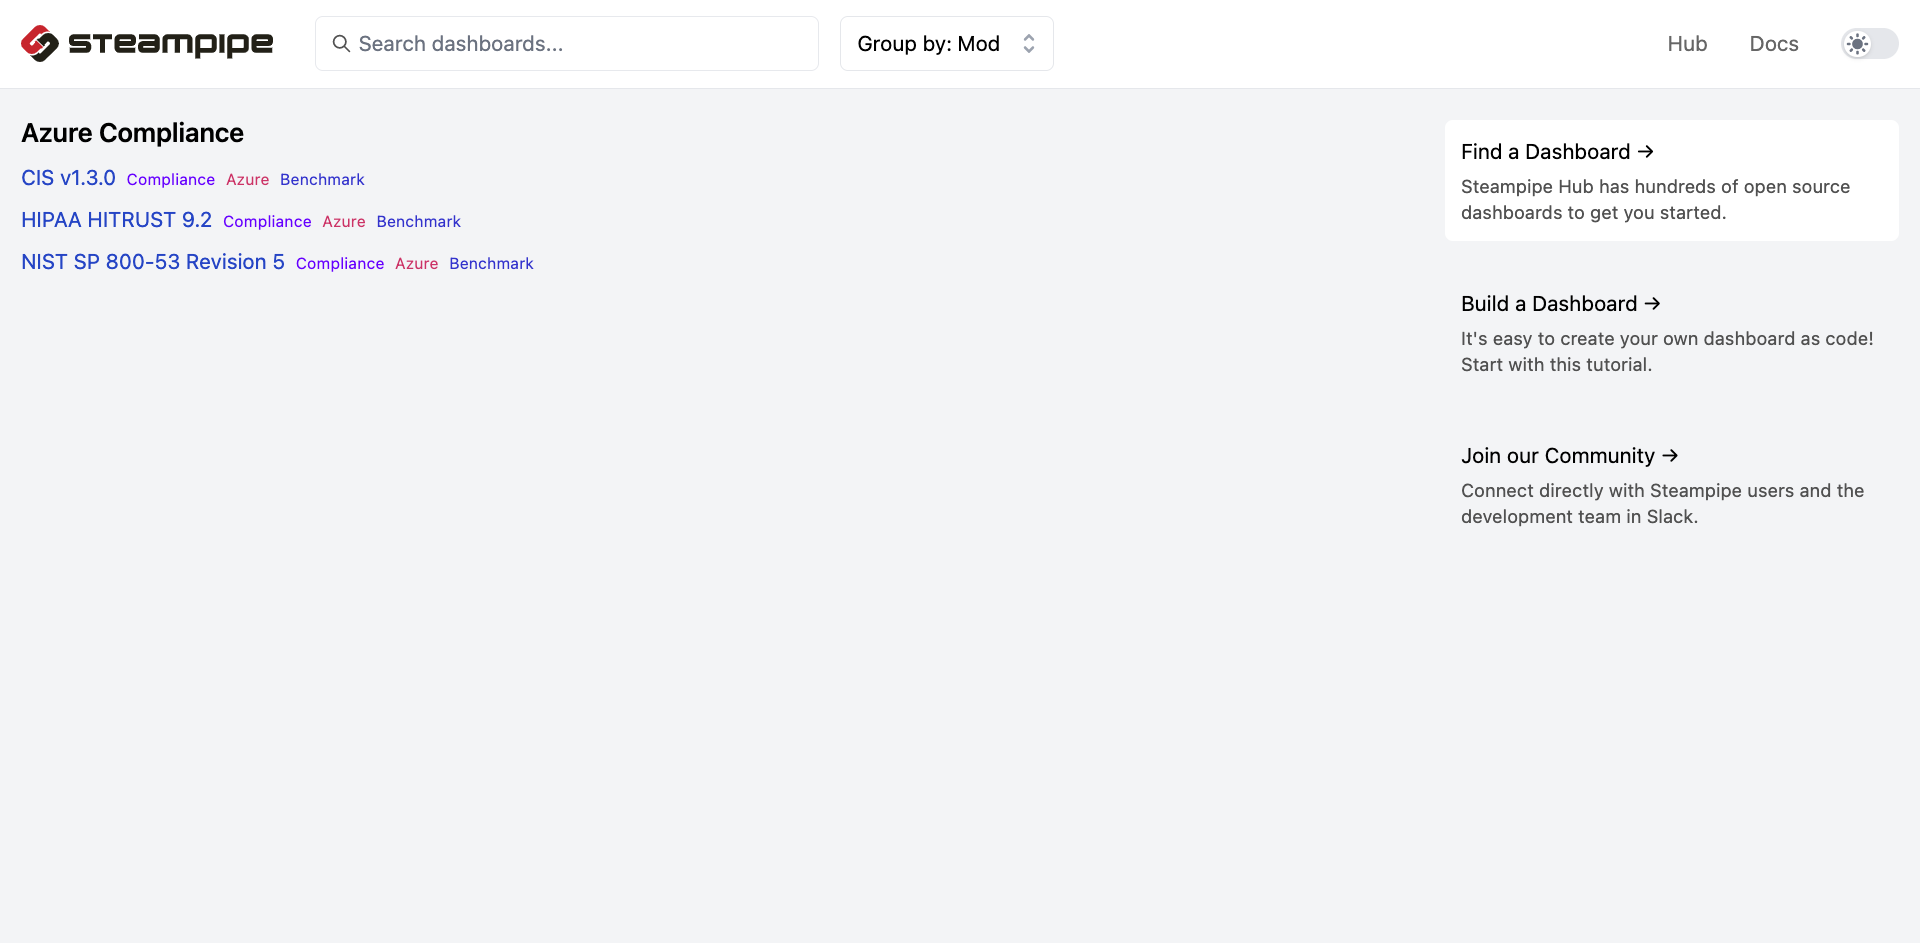
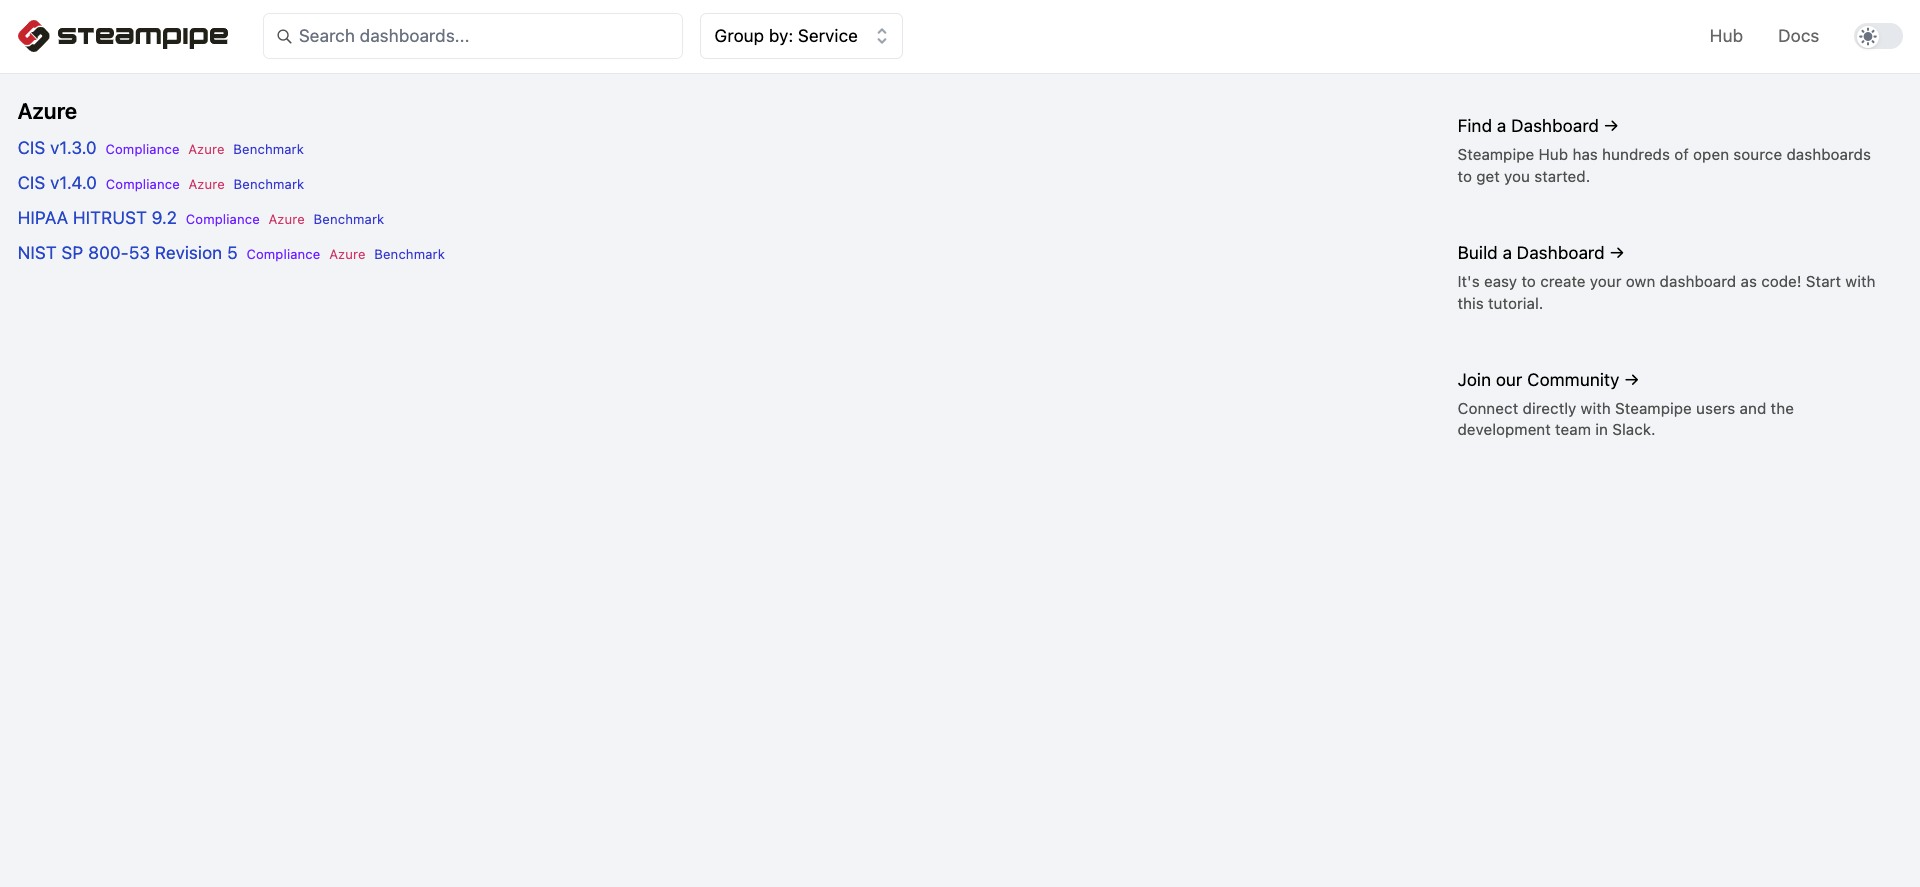
Updated content and dashboard image

diff --git a/docs/index.md b/docs/index.md
@@ -9,6 +9,7 @@ Run individual configuration, compliance and security controls or full `CIS`, `H
 <img src="https://raw.githubusercontent.com/turbot/steampipe-mod-azure-compliance/main/docs/azure_compliance_dashboard.png" width="50%" type="thumbnail"/>
 <img src="https://raw.githubusercontent.com/turbot/steampipe-mod-azure-compliance/main/docs/azure_cis_v130_dashboard.png" width="50%" type="thumbnail"/>
 <img src="https://raw.githubusercontent.com/turbot/steampipe-mod-azure-compliance/main/docs/azure_cis_v130_console.png" width="50%" type="thumbnail"/>
+<img src="https://raw.githubusercontent.com/turbot/steampipe-mod-azure-compliance/main/docs/azure_hipaa_hitrust_dashboard.png" width="50%" type="thumbnail">
 
 ## References
 

diff --git a/cis_v140/docs/cis_v140_5_2_4.md b/cis_v140/docs/cis_v140_5_2_4.md
@@ -1,6 +1,6 @@
 ## Description
 
-Create an Activity Log Alert for the `Delete Network Security Group` event..
+Create an Activity Log Alert for the `Delete Network Security Group` event.
 
 Monitoring for "Delete Network Security Group" events gives insight into network access changes and may reduce the time it takes to detect suspicious activity.
 
